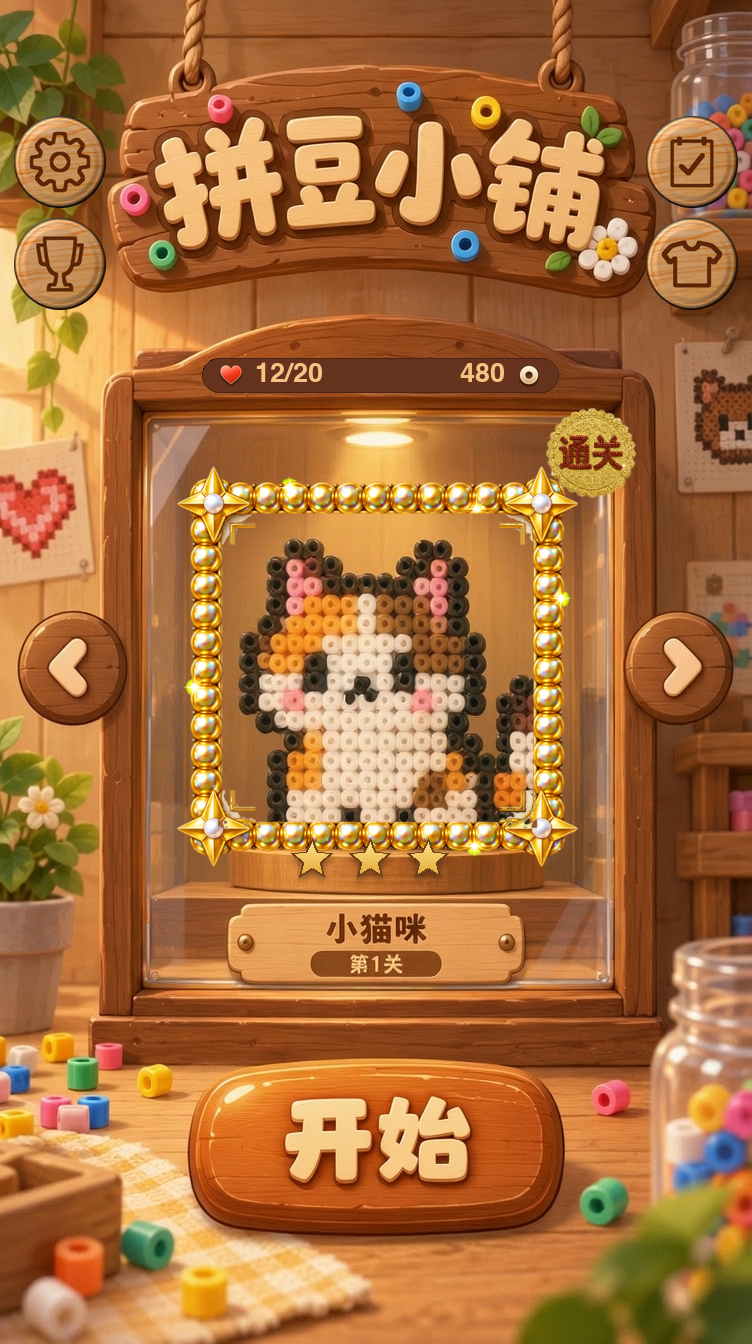
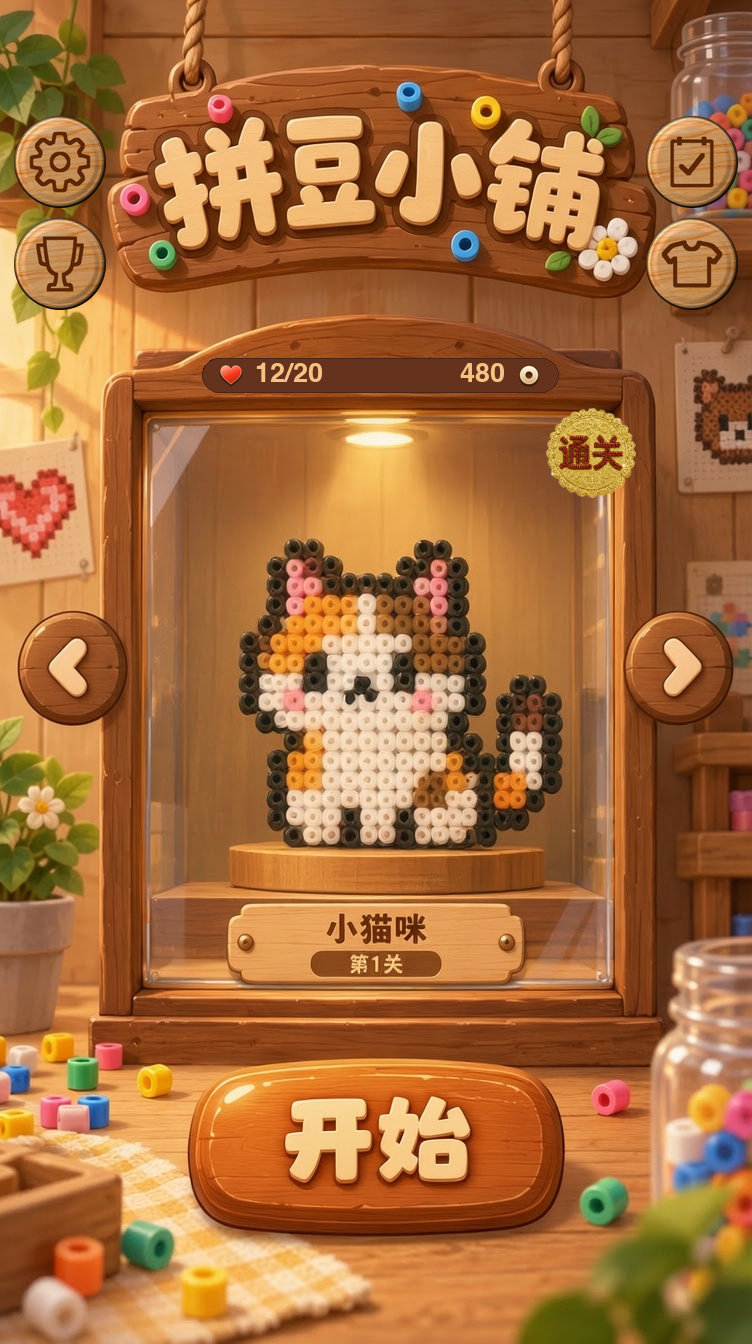
fix(art): 通关去框去星 + 新增满星态（WXG-T-574）
- cleared 仅留通关圆章；fullstar 珠圈框 + 三颗金星

- 框平移到豆画 alpha 重心 dx-13.8/dy+38.5，金星随框下移

- 四态贴回区外 maxdiff=0；README/生成史/台账同步

Changed region(s): [[0.2447, 0.3438, 0.7646, 0.6562]]

diff --git a/games/beads/design/ai-workflows/proto-from-figma.py b/games/beads/design/ai-workflows/proto-from-figma.py
@@ -1,5 +1,5 @@
 #!/usr/bin/env python3
-"""以 Figma 设计稿三件透明切图 + 既有基准底图，派生 v3 三态原型（纯像素变换，零模型）。
+"""以 Figma 设计稿四件透明切图 + 既有基准底图，派生 v3 四态原型（纯像素变换，零模型）。
 
 贴回三步（区外 maxdiff 必须 0）：α = blur(M)×M 向内羽化 → 合成 → 区外硬拷回。
 
@@ -32,6 +32,25 @@ SX, SY = 752 / 750, 1344 / 1334
 FRAME_BOX = (164, 450, 426, 426)   # 46:21 满星装裱框·实例
 LOCK_BOX = (327, 622, 95, 130)     # 47:19 锁·关卡图案中心
 SEAL_BOX = (545, 405, 90, 89)      # 47:20 通关标记·框右上
+ART_BOX_FIGMA = (212, 530, 325, 314)   # 44:64 关卡图案（猫咪拼豆）
+
+
+def art_center():
+    """豆画 alpha 重心 → 基准图坐标；切图 @scale 2 ⇒ 2 切图 px = 1 设计 px。"""
+    with Image.open(ELEM / "ui_menu_art_cat.png") as im:
+        a = np.asarray(im.convert("RGBA").getchannel("A"))
+    ys, xs = np.nonzero(a > 32)
+    return ((ART_BOX_FIGMA[0] + xs.mean() / 2) * SX,
+            (ART_BOX_FIGMA[1] + ys.mean() / 2) * SY)
+
+
+def aligned_frame_box():
+    """把珠圈框中心平移到豆画 alpha 重心（返回 Figma 坐标 box）。"""
+    cx, cy = art_center()
+    fx, fy, fw, fh = FRAME_BOX
+    dx = (cx - (fx + fw / 2) * SX) / SX
+    dy = (cy - (fy + fh / 2) * SY) / SY
+    return (fx + dx, fy + dy, fw, fh)
 
 
 def feather_paste(base, el, box, feather=1.2):
@@ -87,13 +106,27 @@ def main():
     pb.stamp(pushing, "ui_menu_badge_progress.png",
              pb.ART_C[0], pb.ART_C[1] + 4, pb.HOUR_D, pb.HOUR_D)
 
-    # cleared：全彩 + 满星行 + Figma 通关圆章（⛔ 不再叠 v2 金边，珠圈框已承担）
-    cleared = pb.star_row(framed)
+    # cleared：全彩 + Figma 通关圆章（⛔ 无框、无底座三颗星）
+    cleared = base.copy()
     with Image.open(ELEM / "ui_menu_seal_cleared_figma.png") as el:
         cleared, d2 = feather_paste(cleared, el, SEAL_BOX)
     print("cleared 章 贴回 区外 maxdiff", d2)
 
-    states = {"locked": locked, "pushing": pushing, "cleared": cleared}
+    # fullstar：珠圈框中心对齐豆画 alpha 重心 + 底座三颗金星
+    box = aligned_frame_box()
+    print("fullstar 框平移(dx,dy 设计px)", round((box[0] - FRAME_BOX[0]) * SX, 1),
+          round((box[1] - FRAME_BOX[1]) * SY, 1))
+    with Image.open(ELEM / "ui_menu_frame_pearls.png") as el:
+        fullstar, d3 = feather_paste(base, el, box)
+    # 三颗星随框同步下移，仍落在「底座」圆台上而非金框柱上
+    star_y0 = pb.STAR_Y
+    pb.STAR_Y = star_y0 + round((box[1] - FRAME_BOX[1]) * SY)
+    fullstar = pb.star_row(fullstar)
+    pb.STAR_Y = star_y0
+    print("fullstar 框 贴回 区外 maxdiff", d3)
+
+    states = {"locked": locked, "pushing": pushing, "cleared": cleared,
+              "fullstar": fullstar}
     for name, cv in states.items():
         p = OUT / f"proto-menu-v3-{name}-752x1344.png"
         cv.save(p)

diff --git a/games/beads/design/art/final/README.md b/games/beads/design/art/final/README.md
@@ -16,18 +16,20 @@
 
 ### 1b. 2026-11-04 现行口径（WXG-T-574）
 
-用户令：**基准图不动**；从 Figma 下载新设计图；参考 v2 三态做新三态；坐标图落 `coordinates/`；**之前的三态去掉**。
+用户令：**基准图不动**；从 Figma 下载新设计图；参考 v2 三态做新三态；坐标图落 `coordinates/`；**之前的三态去掉**。追加令：`cleared` 通关**不加框、不加底座三颗星**；另增**满星**态（加框、图案居中于框）。
 
 | 目录 | 现行件 | 来源 |
 |---|---|---|
 | `prototypes/` | `menu-design-baseline-cat-topbar-final-slotbar-20261102.png`（**未改动**） | 既有基准 752×1344 |
 | `prototypes/` | `menu-design-figma-v2-20261104.png` | Figma `2:81` 抠图源（750×1334；金色珠圈装裱框 + 锁 + 通关章） |
-| `prototypes/` | `proto-menu-v3-{locked,pushing,cleared}-752x1344.png` | 本批新三态（752×1344） |
+| `prototypes/` | `proto-menu-v3-{locked,pushing,cleared,fullstar}-752x1344.png` | 本批新四态（752×1344） |
 | `coordinates/` | `menu-master-coords-v2-20261104.png` | Figma `50:113` 坐标图（1300×1334，安全区 + 胶囊区 + 元素实测框） |
 
-**生成史三要素**：① 生成方式 = Figma REST 下载 + 程序化像素变换（**零模型、零重绘**）；② 产出脚本 = `my-skills/wxgame-figma/scripts/figma.mjs`（下载）、`../../ai-workflows/proto-from-figma.py`（三态；复用 `proto-from-baseline.py` 的磨砂 / 竖向揭彩 / 满星行函数）；③ 原图 = Figma 文件 `PBIK3RbfGlfzFsAnd97ZsP` 节点 `2:81` / `50:113` / `46:21` / `47:19` / `47:20`，三件透明切图存 `proposals/menu-3d-style-20261030/figma-elements-20261104/`（真 alpha）。
+**四态分工**：`locked` 磨砂 + 拼豆锁 · `pushing` 竖向揭彩 + 木刻沙漏（两者珠圈框按原 Figma 位）· `cleared` **无框无星**，只留 Figma 通关圆章 · `fullstar` 珠圈框 + 底座三颗金星，框中心平移到豆画 alpha 重心（dx −13.8 / dy +38.5 设计 px），金星随框下移仍落圆台。
 
-**贴回判据**：α = blur(M)×M 向内羽化 → 合成 → 区外硬拷回；三次贴回实测 **区外 maxdiff = 0**（脚本 assert 硬失败）。三态饱和度分档 locked 2.3 / pushing 灰 5.3·彩 94.0 / cleared 103.9；`pushing` 的珠圈框上灰下金，与运行时 `grayWipeFx` 同式同向。⛔ `cleared` 不再叠 v2 金边（珠圈框已承担）。
+**生成史三要素**：① 生成方式 = Figma REST 下载 + 程序化像素变换（**零模型、零重绘**）；② 产出脚本 = `my-skills/wxgame-figma/scripts/figma.mjs`（下载）、`../../ai-workflows/proto-from-figma.py`（四态；复用 `proto-from-baseline.py` 的磨砂 / 竖向揭彩 / 满星行函数）；③ 原图 = Figma 文件 `PBIK3RbfGlfzFsAnd97ZsP` 节点 `2:81` / `50:113` / `46:21` / `47:19` / `47:20` / `44:64`，**四件**透明切图存 `proposals/menu-3d-style-20261030/figma-elements-20261104/`（真 alpha；新增 `ui_menu_art_cat.png` 供重心计算）。
+
+**贴回判据**：α = blur(M)×M 向内羽化 → 合成 → 区外硬拷回；四次贴回实测 **区外 maxdiff = 0**（脚本 assert 硬失败）。饱和度分档 locked 2.3 / pushing 灰 5.3·彩 94.0 / cleared 96.9（全彩，仅通关章改动 0.6%）；`pushing` 的珠圈框上灰下金，与运行时 `grayWipeFx` 同式同向。
 
 v2 三态 `proto-menu-v2-{locked,pushing,cleared}-752x1344.png` 已按用户令从目录移除（git 历史可取回）。**接线目标：原型设计，不进运行时 `assets/`**。
 

diff --git a/production/TASKS.md b/production/TASKS.md
@@ -8,7 +8,7 @@
 
 | Task ID | 名称 | 负责 | 状态 | 产出 |
 |---|---|---|---|---|
-| WXG-T-574 | 美术·Figma v2 设计图/坐标图落库 + v3 三态原型 | 主理人(CodeBuddy)·美术轨 | ✅ **完成（2026-11-04）**（用户令「基准不动、下载新设计图、参考旧三态做新三态、坐标图落 coordinates、去掉之前的」⇒ 方法选「分层切图贴回」：`2:81` 新设计图 + `50:113` 坐标图经 PAT+REST 下载落库；`46:21`/`47:19`/`47:20` 三件真 alpha 切图 + `proto-from-figma.py` 出 v3 三态，三次贴回区外 maxdiff=0；v2 三态移除；README §1b / asset-provenance §5 登记） | 见详情 |
+| WXG-T-574 | 美术·Figma v2 设计图/坐标图落库 + v3 三态原型 | 主理人(CodeBuddy)·美术轨 | ✅ **完成（2026-11-04）**（用户令「基准不动、下载新设计图、参考旧三态做新三态、坐标图落 coordinates、去掉之前的」⇒ 方法选「分层切图贴回」：`2:81` 新设计图 + `50:113` 坐标图经 PAT+REST 下载落库；`46:21`/`47:19`/`47:20` 三件真 alpha 切图 + `proto-from-figma.py` 出 v3 三态，三次贴回区外 maxdiff=0；v2 三态移除；追加令：`cleared` 去框去星 + 新增 `fullstar`（移框对齐、图案居中）；README §1b / asset-provenance §5 登记） | 见详情 |
 | WXG-T-573 | 美术·删除菜单翻页钮 ui_btn_arrow_left/right | 主理人(Cursor)·美术轨 | ✅ **完成（2026-11-03）**（用户令「这两个不要了」⇒ 经两次确认选「删除 + 回退旧圆底」：删现役 `final/assets/menu/` 2 件与 Cocos 投放 2 件（png + meta）；清 `tuning/menu.ts` 两个纹理键、`beads-blit-carrier.ts` 与 `dev/harness/main.ts` 映射；`meta-menu.ts` 去掉整枚腿分支，橱窗 ◀▶ 回退 `ui_btn_arrow_bg_*` + `ui_icon_arrow_*`；`showcase-single.test.ts` 改断言为回退路径。beads 全量 vitest 121 文件 / 1430 用例全绿。详见 TASKS-DETAIL） | 见详情 |
 | WXG-T-572 | 美术·菜单基准图落 prototypes + Figma 写入权限验证 | 主理人(Cursor)·美术轨 | ✅ **完成（2026-11-03）**（基准图已落 `final/prototypes/`；新建 / 上传 / 读回 / `use_figma` 写入均已通过） | 见详情 |
 | WXG-T-571 | 工具链·Figma MCP 改接本地桌面版 | 主理人(Cursor·CodeBuddy)·工具链轨 | ✅ **完成（2026-11-03·方案改判）**（MCP 两路均判负：远程 OAuth 动态注册 403 白名单、本地 `3845` 需 Dev/Full 座位且恒不监听 ⇒ 用户令「用 `FIGMA_API_KEY` 走统一 skill」；已落地 `my-skills/wxgame-figma`（PAT+REST，`me`/`tree`/`node`/`img`+selftest，零依赖）+ 五 IDE 符号链接，`check:links` skills=51 OK） | 见详情 |

diff --git a/production/qa/asset-provenance.md b/production/qa/asset-provenance.md
@@ -84,7 +84,9 @@
 |---|---|---|---|
 | `final/prototypes/menu-design-figma-v2-20261104.png` | Figma REST 下载（`img`），零重绘 | `my-skills/wxgame-figma/scripts/figma.mjs` | Figma `PBIK3RbfGlfzFsAnd97ZsP` · `2:81` |
 | `final/coordinates/menu-master-coords-v2-20261104.png` | 同上 | 同上 | 同上 · `50:113` |
-| `final/prototypes/proto-menu-v3-{locked,pushing,cleared}-752x1344.png` | 程序化像素变换（贴回三步 + 磨砂 / 竖向揭彩 / 满星行），零模型 | `games/beads/design/ai-workflows/proto-from-figma.py` | 既有基准图 + `proposals/menu-3d-style-20261030/figma-elements-20261104/` 三件（Figma `46:21` / `47:19` / `47:20`）+ 木刻沙漏章 |
-| `proposals/.../figma-elements-20261104/*.png` | Figma REST 切图（`@scale 2`，真 alpha） | 同上 `figma.mjs` | 同上三个节点 |
+| `final/prototypes/proto-menu-v3-{locked,pushing,cleared,fullstar}-752x1344.png` | 程序化像素变换（贴回三步 + 磨砂 / 竖向揭彩 / 满星行），零模型 | `games/beads/design/ai-workflows/proto-from-figma.py` | 既有基准图 + `proposals/menu-3d-style-20261030/figma-elements-20261104/` 四件（Figma `46:21` / `47:19` / `47:20` / `44:64`）+ 木刻沙漏章 |
+| `proposals/.../figma-elements-20261104/*.png` | Figma REST 切图（`@scale 2`，真 alpha） | 同上 `figma.mjs` | 同上四个节点（`ui_menu_art_cat.png` 新增，供豆画 alpha 重心计算） |
 
-判据：三次贴回**区外 maxdiff = 0**（脚本 assert）；接线目标 = 原型设计，**不进运行时 assets**。基准图 `menu-design-baseline-cat-topbar-final-slotbar-20261102.png` 未改动；v2 三态按用户令从目录移除（git 历史可取回）。
+判据：四次贴回**区外 maxdiff = 0**（脚本 assert）；接线目标 = 原型设计，**不进运行时 assets**。基准图 `menu-design-baseline-cat-topbar-final-slotbar-20261102.png` 未改动；v2 三态按用户令从目录移除（git 历史可取回）。
+
+**追加令（同日）**：`cleared` 去框、去底座三颗星（只留通关圆章）；新增 `fullstar` = 珠圈框 + 三颗金星，框 bbox 平移到 `44:64` 豆画 alpha 重心（dx −13.8 / dy +38.5 设计 px），金星随框同步下移仍落圆台。方案按用户令在「移框对齐 / 移框不带星 / 重贴豆画」三法中选**移框对齐**（零抠图、零擦除、零模型）。

diff --git a/ctx/hot-files.md b/ctx/hot-files.md
@@ -25,7 +25,7 @@
 
 §wechatgame 项目长期笔记=1+81 · §日志蒸馏规程（R2 · WXG-T-0…=7+6 · §项目约定=13+22 · §常用脚本=35+11 · §SubAgent=46+4 · §Rules=50+3 · §Hooks=53+7 · §Headless / CI=60+8 · §已知限制=68+14
 
-## `production/TASKS.md` — 181 行 / 41719 tok / 实测读 4 次
+## `production/TASKS.md` — 181 行 / 41747 tok / 实测读 4 次
 
 §WXG 任务台账（SSOT）=1+182 · §待排（backlog，无号，立项时领取…=154+29
 
@@ -103,10 +103,10 @@
 §knowledge/ — 工作室知识库…=1+323 · §1 读取协议（开发前期）=7+10 · §2 写入协议（任务收尾）=17+28 · §3 文件分工=45+10 · §4 维护=55+12 · §5 生命周期（访问记账 → 归档 → …=67+41 · §6 活跃条目（自动生成）=108+216
 > 本表只列 7 / 11 节：其余 4 节 → ctx/index.json（按 path 取 `sections[].anchor` / `startLine`，勿整读）。
 
-## `production/TASKS-DETAIL.md` — 7697 行 / 213611 tok
+## `production/TASKS-DETAIL.md` — 7708 行 / 213982 tok
 
-§WXG 任务台账 · 详情（标题制正文…=1+7698 · §WXG-T-563=7205+30 · §WXG-T-566=7235+61 · §WXG-T-567=7296+25 · §WXG-T-565=7321+32 · §WXG-T-564=7353+34 · §WXG-T-569=7387+41 · §WXG-T-568=7428+60 · §WXG-T-570=7488+71 · §WXG-T-571=7559+38 · §WXG-T-572=7597+33 · §WXG-T-573=7630+36 · §WXG-T-574=7666+33
-> 本表只列 13 / 844 节：其余 831 节 → ctx/index.json（按 path 取 `sections[].anchor` / `startLine`，勿整读）。
+§WXG 任务台账 · 详情（标题制正文…=1+7709 · §WXG-T-563=7205+30 · §WXG-T-566=7235+61 · §WXG-T-567=7296+25 · §WXG-T-565=7321+32 · §WXG-T-564=7353+34 · §WXG-T-569=7387+41 · §WXG-T-568=7428+60 · §WXG-T-570=7488+71 · §WXG-T-571=7559+38 · §WXG-T-572=7597+33 · §WXG-T-573=7630+36 · §WXG-T-574=7666+44
+> 本表只列 13 / 845 节：其余 832 节 → ctx/index.json（按 path 取 `sections[].anchor` / `startLine`，勿整读）。
 
 ## `games/breakout/design/concept.md` — 143 行 / 3113 tok / 实测读 217 次
 

diff --git a/ctx/BUDGET.md b/ctx/BUDGET.md
@@ -22,7 +22,7 @@
 
 | # | 文件 | tokens | 行数 | tier |
 |---:|---|---:|---:|:--:|
-| 1 | `production/TASKS-DETAIL.md` | 213611 | 7697 | normal |
+| 1 | `production/TASKS-DETAIL.md` | 213982 | 7708 | normal |
 | 2 | `games/beads/design/gdd/powerups-v2.md` | 154580 | 2352 | normal |
 | 3 | `games/beads/design/art/specs/assets-spec.md` | 121738 | 2109 | normal |
 | 4 | `production/qa/beads/g4-regression-report.md` | 86807 | 2201 | normal |
@@ -31,7 +31,7 @@
 | 7 | `docs/architecture/adr/ADR-0030-beads-cocos-production-blit-carrier.md` | 45150 | 1307 | normal |
 | 8 | `games/beads/design/proposals/bead-visual-style-spec.md` | 43650 | 1206 | normal |
 | 9 | `games/beads/design/gdd/systems-index.md` | 42379 | 323 | hot |
-| 10 | `production/TASKS.md` | 41719 | 181 | hot |
+| 10 | `production/TASKS.md` | 41747 | 181 | hot |
 | 11 | `docs/architecture/adr/ADR-0034-beads-save-uid-index-flatten.md` | 41181 | 502 | normal |
 | 12 | `games/beads/design/levels/levels-spec.md` | 39938 | 914 | normal |
 | 13 | `games/beads/design/art/specs/art-bible.md` | 38368 | 530 | normal |
@@ -49,7 +49,7 @@
 
 | 文件 | tokens | 类别 · 上限 | 处置 |
 |---|---:|---:|:--:|
-| `production/TASKS-DETAIL.md` | 213611 | tasksDetail · 205000 | 见 `ctx/budget-exempt.json`（无豁免则 ❌ 需报告主理人） |
+| `production/TASKS-DETAIL.md` | 213982 | tasksDetail · 205000 | 见 `ctx/budget-exempt.json`（无豁免则 ❌ 需报告主理人） |
 | `games/beads/design/gdd/powerups-v2.md` | 154580 | spec · 8000 | 见 `ctx/budget-exempt.json`（无豁免则 ❌ 需报告主理人） |
 | `games/beads/design/art/specs/assets-spec.md` | 121738 | spec · 8000 | 见 `ctx/budget-exempt.json`（无豁免则 ❌ 需报告主理人） |
 | `production/qa/beads/g4-regression-report.md` | 86807 | ledger · 16000 | 见 `ctx/budget-exempt.json`（无豁免则 ❌ 需报告主理人） |

diff --git a/production/TASKS-DETAIL.md b/production/TASKS-DETAIL.md
@@ -7695,3 +7695,14 @@ Figma 官方文档（remote-server-installation）：远程端点 `https://mcp.f
 ### 5. 提交
 
 代码、素材、README、生成史、台账同一批提交推送。
+
+### 6. 追加令（2026-11-04）：通关 / 满星分态
+
+用户令：「通关不要加框，而且不要底座上三颗星。增加一个满星原型图，加框，图案放到框正中间」。按图像任务开工前提示令，列三法后用户选 **「移框对齐」**（零抠图、零擦除、零模型）。
+
+- 探测：Figma `44:64` 关卡图案可单独导出真 alpha（650×628 @2x → 325×314 设计 px），落 `proposals/…/figma-elements-20261104/ui_menu_art_cat.png`。
+- `aligned_frame_box()`：读切图 alpha 重心 → 换算到 752×1344 基准系 = (364.2, 706.4)；原框中心 (378.0, 668.0) ⇒ 平移 **dx −13.8 / dy +38.5**，使图案落在框正中间。
+- `cleared` 改为基准图 + 通关圆章（**无框、无底座三颗星**），改动像素降至 6244（0.6%）；新增 `fullstar` = 珠圈框（平移后）+ 三颗金星，金星随框同步下移 38 px 仍落在圆台底座上。
+- `locked` / `pushing` **未改**（用户未点名）；其珠圈框仍按 Figma 原位。
+- 四态贴回判据：区外 maxdiff = 0 ×4；`cleared` 柜内饱和度 96.9（全彩）。
+- README §1b、asset-provenance §5 同步回写；仍署 WXG-T-574（同批返工，不另领号）。
